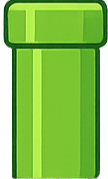
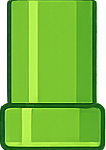
Update FlappyBird pipes and gameplay

diff --git a/src/main/java/demo/teste/flappybird/FlappyBirdGamePane.java b/src/main/java/demo/teste/flappybird/FlappyBirdGamePane.java
@@ -43,8 +43,8 @@ public class FlappyBirdGamePane extends StackPane {
     private final Image birdFrame1 = loadImage("/img/flappybird/Bird_Frame_01.png");
     private final Image birdFrame2 = loadImage("/img/flappybird/Bird_Frame_02.png");
     private final Image birdFrame3 = loadImage("/img/flappybird/Bird_Frame_03.png");
-    private final Image pipeDown = loadImage("/img/flappybird/Pipe_Down.png");
-    private final Image pipeUp = loadImage("/img/flappybird/Pipe_Up.png");
+    private final Image pipeDown = loadImage("/img/flappybird/Pipe_Up.png");
+    private final Image pipeUp = loadImage("/img/flappybird/Pipe_Down.png");
 
     private double birdY;
     private double birdVelocity;
